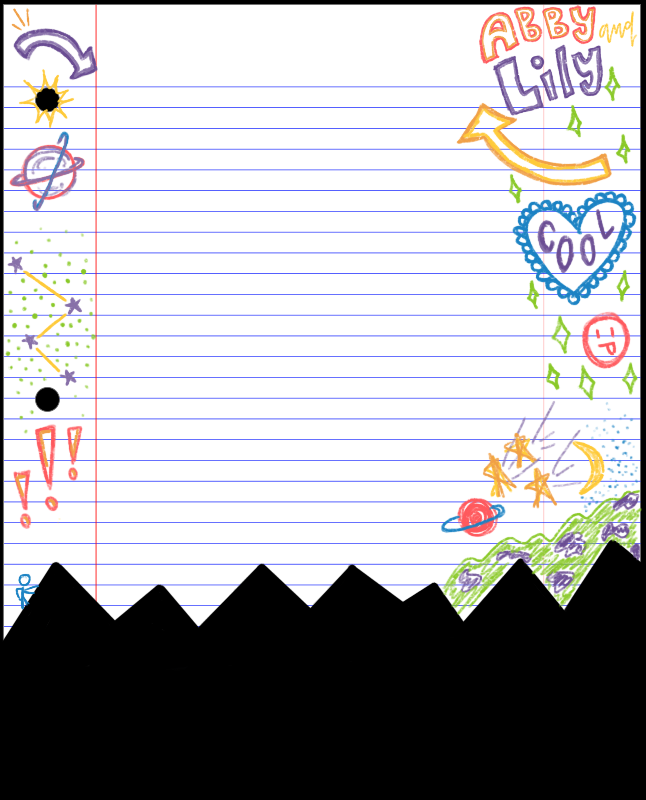
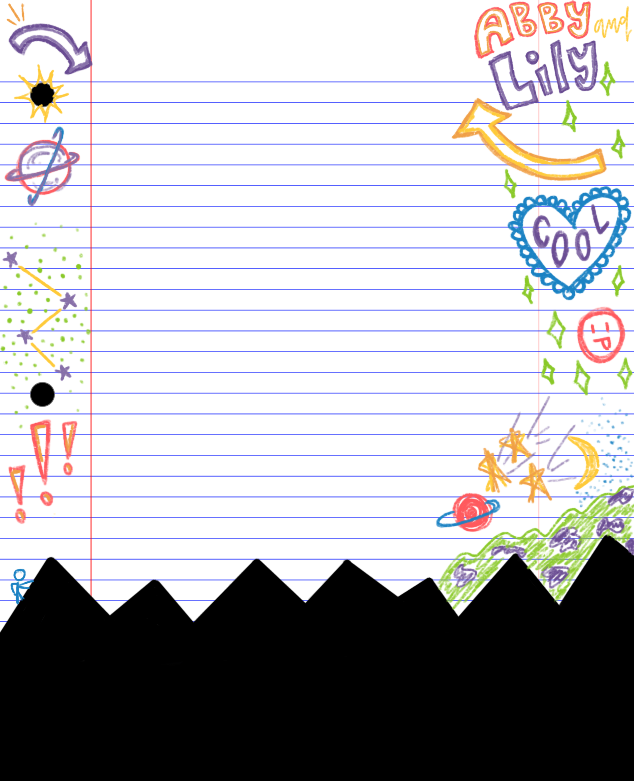
doodle updatez

Changed region(s): [[0.0, 0.0, 1.0, 0.799]]

diff --git a/src/public/style.css b/src/public/style.css
@@ -12,10 +12,11 @@ h2 {
 	font-size: 4.5rem;
     margin-top: -10px;
     text-align: center; 
-    background-color: #FFFF00;
+	/* background-color: #FFFF00; */
     width: 60%;
-    left: 150px;
-    position: absolute
+	left: 150px;
+	position: absolute;
+
 }
 p {
     font-family: "Patrick Hand SC";
@@ -60,7 +61,7 @@ p {
 	text-align: center;
 	text-decoration: none;
 	padding: 1vh 5vh;
-	background-color: #0056ff;
+	background-color: #8ac926;
 	font-size: 20px;
 	cursor: pointer;
 	border-radius: 10px;
@@ -92,6 +93,7 @@ p {
     font-family: "Patrick Hand SC";
 	font-size: 20px;
 	padding-left: 50px;
+	padding-top: 10px;
 }
 #receipt {
 	clear: both;
@@ -100,16 +102,16 @@ p {
 	align-items: center;
 	align-content: center;
 	justify-content: center;
-	margin: 20px auto;
+	/* margin: auto; */
 }
 .listContainer {
-	background-image: url('doodles.png');
+	background-image: url('doodles3.png');
 	/* background-position: center; */
-    width: 677px;
-    background-size: 680px;
+    width: 682px;
+    background-size: 682px;
 	filter: brightness(110%);
-    padding: 55px;
-    /* padding-left: 60px; */
+    padding: 52px;
+	padding-left: 58px;
 }
 .begin {
 	padding-left: 0vh;
